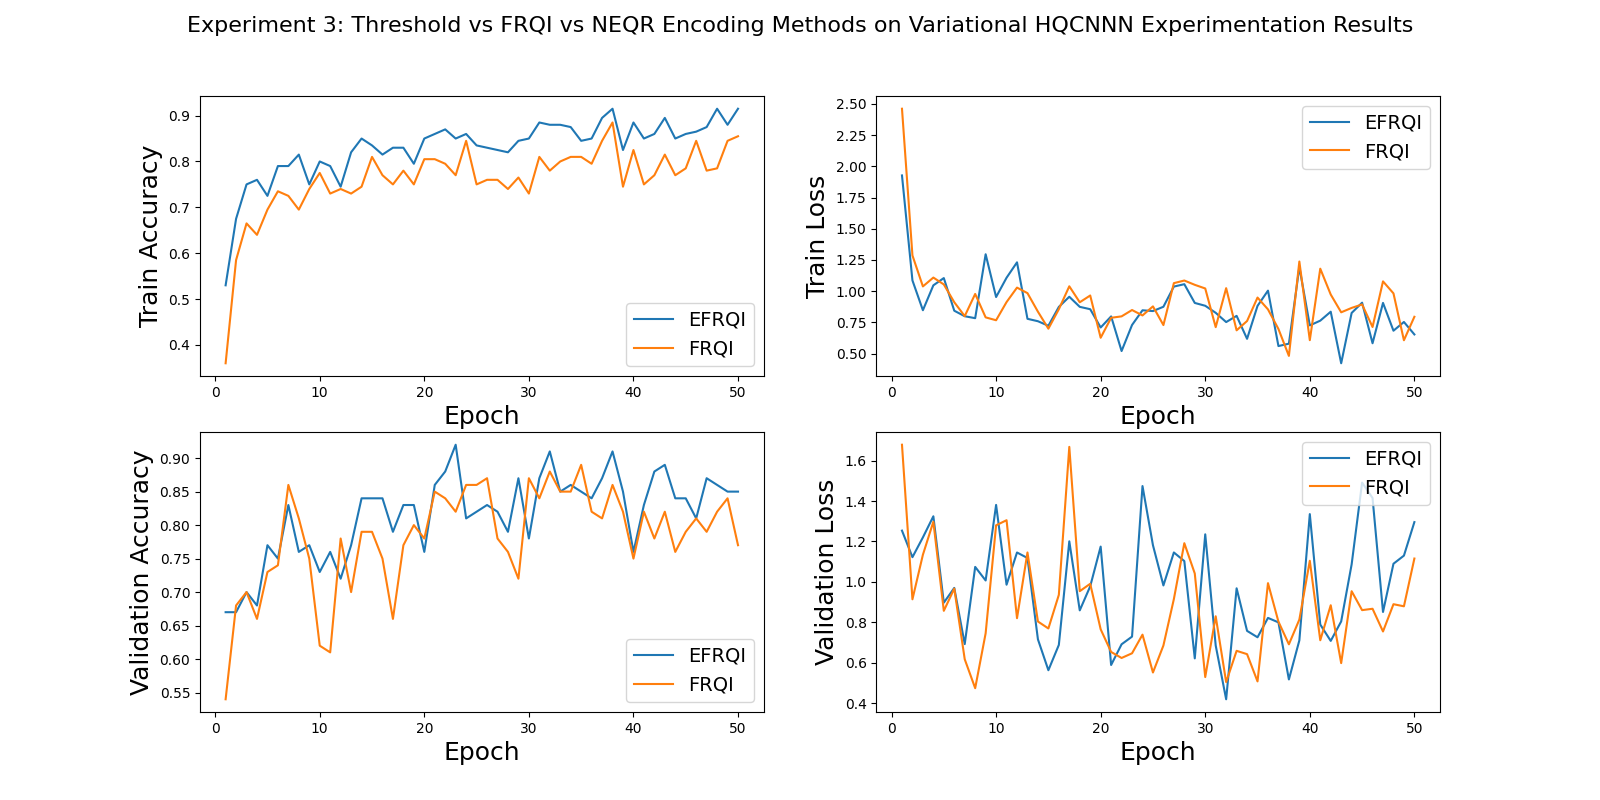
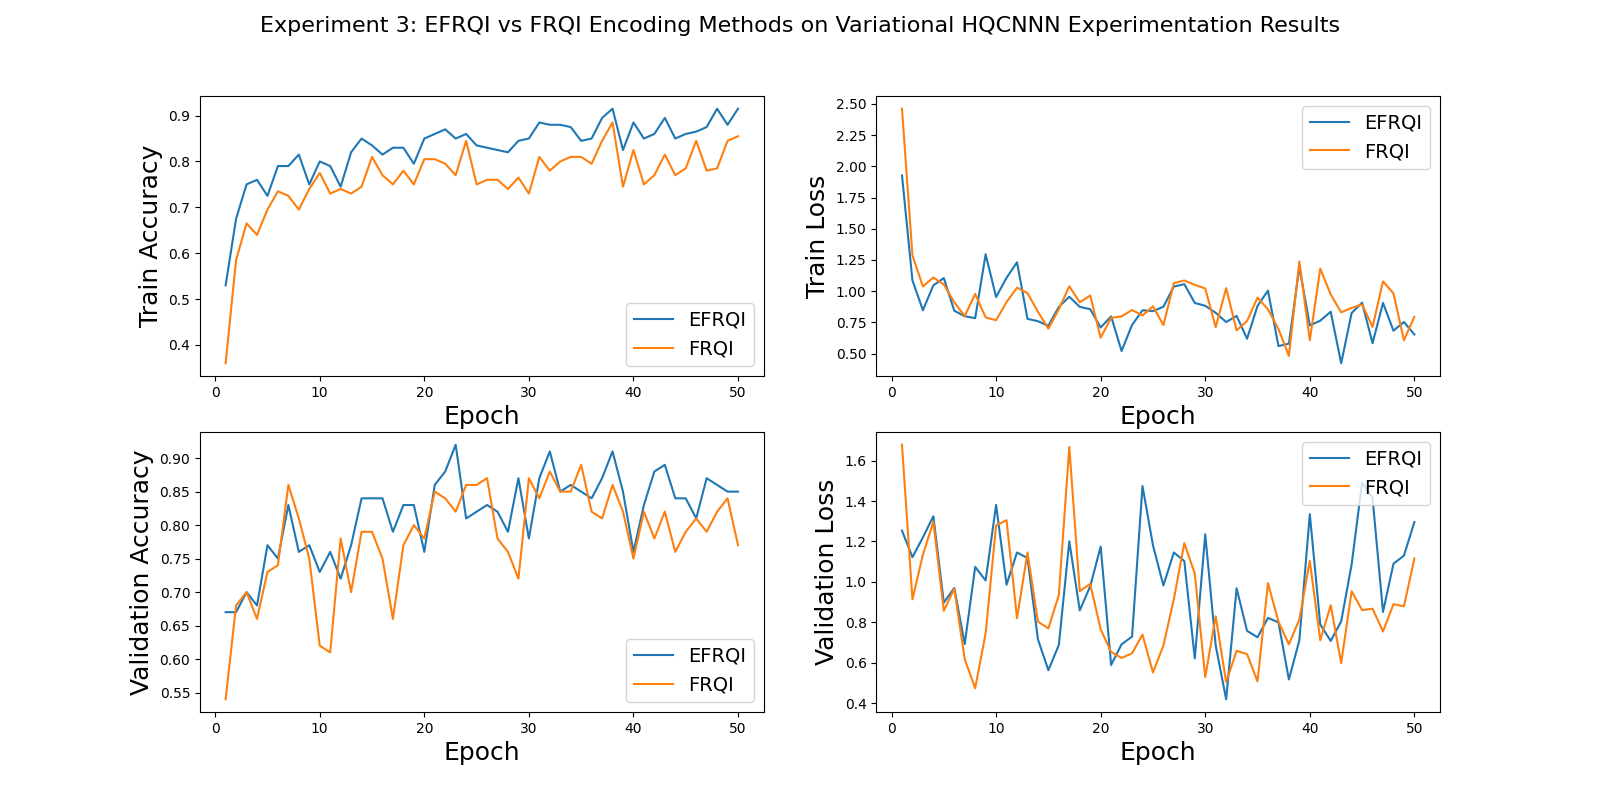
Updated README

Changed region(s): [[0.125, 0.0, 0.875, 0.0625]]

diff --git a/README.md b/README.md
@@ -1,20 +1,9 @@
-# Variational Quanvolutional Neural Networks with enhanced image encoding
-**Preprint**: https://arxiv.org/abs/2106.07327
+# A Study on Hybrid Quantum-Classical Convolutional Neural Networks and its Quantum Image Encoding Methods for Image Classification
 
 #### Abstract
-Image classification is an important task in various machine learning applications. In recent years, a number of classification methods based on quantum machine learning and different quantum image encoding techniques have been proposed. In this paper, we study the effect of three different quantum image encoding approaches on the performance of a convolution-inspired hybrid quantum-classical image classification algorithm called quanvolutional neural network (QNN). We furthermore examine the effect of variational - i.e. trainable - quantum circuits on the classification results. Our experiments indicate that some image encodings are better suited for variational circuits. However, our experiments show as well that there is not one best image encoding, but that the choice of the encoding depends on the specific constraints of the application. This repository is the official implementation of Variational Quanvolutional Neural Networks with enhanced image encoding. 
+This dissertation explores the innovative intersection of quantum computing and classical convolutional neural networks through the development of a Hybrid Quantum-Classical Convolutional Neural Network (HQCCNN). By integrating quantum image encoding methods—specifically the Enhanced Novel Enhanced Quantum Representation (ENEQR) and Enhanced Flexible Representation of Quantum Images (EFRQI)—this research pushes the boundaries of traditional image classification techniques. The quantum encoding methods utilized demonstrate a unique ability to enhance image classification tasks by leveraging quantum mechanics' complex and high-dimensional space. Experimental results reveal that HQCCNNs incorporating these quantum encoding strategies surpass conventional models in accuracy and efficiency, particularly when processing intricate image datasets. This study not only highlights the potential of quantum technologies to revolutionize fields reliant on image classification but also sets the stage for future advancements in quantum artificial intelligence, suggesting a pathway towards more sophisticated quantum-enhanced computational models.
 
 ## Requirements
-
-For the purpose of reproducibility we use a Docker environment. We provide different options depending on the available resources and the need for development options:
-
-```docker-compose.yml``` for simply running the experiments with the default parameters.
-
-```docker-compose-dev.yml``` same parameters but also makes the code available for quick edits in the docker container.
-
-
-
-Additionally, GPUs can be utilized with the following two environments when `"app_params["q-device"] = "qulacs.simulator"`
 is set in `main.py`.
 
 ```docker-compose-gpu.yml``` for simply running the experiments with the default parameters under utilization of a GPU.
@@ -42,87 +31,23 @@ python generate_experiments.py
 ```
 Then you can run the training procedure with the yaml file corresponding to the desired kernel size and random seed:
 ```train
-python main.py experiments_seed_2_filtersize_2x2_imgsize_14.yaml
+python main.py experiments_seed_0_filtersize_2x2_imgsize_14.yaml
 ```
 The code will generate entries in the `save` directory, from which you can inspect the parameters and the performance of the models and reload the pre-trained models. 
-
-The execution of the training can be sped up significantly by pre-encoding the MNIST data and saving the results to disk. To use pre-encoding, change the parameter `app_params["pre_encoding"]` in `main.py` to `True`. **Important:** Pre-encoding works only with the "default.qubit"-simulator. Once the images are pre-encoded, you are free to use any other simulator-backend (e.g. qulacs.simulator).
 
 ## Evaluation
 You can observe the performance of the models, while they are training or afterwards, through `tensorboard`. Enter this address into your browser, after the experiments have been started, to reach the tensorboard started by default.
 ```tensorboard
-localhost:6006
+localhost:6007
 ```
-You can also recreate all of the graphs from our paper with the Jupyter Notebook located at:
+
+The experiments described in the dissertation can be seen through the following Jupyternotebook:
 ```evaluation
 code/evaluation/Evaluation.ipynb
 ```
-## Testing
-
-You can test models on before unseen data. Simply insert the  save location of the models, you wish to test into the `paths` entry of the `test_params` dictionary in `test_models.py`. For newly trained models this is already performed in `main.py` as specified in the default training parameters.
-
-```test
-python test_models.py
-```
-
-## Pre-trained Models
-
-All our models can be reproduced using the commands above. However, this is time consuming. We provide pre-trained model checkpoints in the `evaluation/MNIST14x14`-folder.
-
-## Results
-
-These following two tables show the average values of the training, validation and test accuracy grouped by filter size, encoding algorithm and trainability of the quantum circuit and averaged per group over all different random circuits (seeds 0-9).
-The mean values for training and validation are additionally averaged over the last 20 epochs in order to better estimate only the effects of trainability and encoding algorithm. The max values are not averaged but belong to a certain model of the specific group over the whole course of training. All models had been tested after 50 epochs of training on the same set of 1000 images.
-
-### Accuracy using 2 x 2 filters
-| Encoding              | training       |                | validation     |               | test           |               |
-|-----------------------|----------------|----------------|----------------|---------------|----------------|---------------|
-|                       | mean           | max            | mean           | max           | mean           | max           |
-| FRQI untrainable      | 0.793          | **0.940**          | 0.789          | **0.95**          | 0.806          | 0.878         |
-| FRQI trainable        | **0.862**          | 0.935          | **0.853**          | 0.93          | **0.854**          | **0.884**         |
-| NEQR untrainable      | 0.785          | 0.875          | 0.773          | 0.93          | 0.760          | 0.830         |
-| NEQR trainable        | 0.786          | 0.860          | 0.769          | 0.89          | 0.774          | 0.839         |
-| Threshold untrainable | 0.818          | 0.910          | 0.796          | 0.90          | 0.792          | 0.882         |
-| Threshold trainable   | 0.827          | 0.925          | 0.796          | 0.92          | 0.825          | 0.881         |
-
-### Accuracy using 4 x 4 filters
-| Encoding              | training       |                | validation     |               | test           |               |
-|-----------------------|----------------|----------------|----------------|---------------|----------------|---------------|
-|                       | mean           | max            | mean           | max           | mean           | max           |
-| FRQI untrainable      | 0.639          | 0.870          | 0.623          | 0.84          | 0.602          | 0.826         |
-| FRQI trainable        | 0.737          | 0.865          | 0.732          | 0.87          | 0.715          | 0.836         |
-| NEQR untrainable      | 0.755          | 0.870          | 0.756          | **0.92**  | 0.727          | 0.789         |
-| NEQR trainable        | 0.783          | 0.880          | 0.780          | **0.92** | 0.759          | 0.846         |
-| Threshold untrainable | **0.818** | **0.890** | **0.796** | 0.91          | **0.828** | 	**0.859** |
-| Threshold trainable   | 0.812          | 0.880          | 0.793          | 0.89          | 0.802          | 0.845         |
-
-<br/>
-
-These now following two tables show the average training duration for each experimental configuration of filter size, encoding and trainability. The training was conducted on a compute cluster with 4 GPUs and 40 CPUs. The quantum states of the input images had been pre-encoded to accelerate the training.
-
-### Training duration in hours using 2 x 2 filters
-| Encoding                 | untrainable                                    | trainable |
-|--------------------------|------------------------------------------------|-----------|
-| FRQI                     | 1.34                                           | 7.78      |
-| NEQR                     | 3.51                                           | 13.75     |
-| Threshold                | 1.9                                            | 8.19      |
-### Training duration in hours using 4 x 4 filters
-| Encoding                 | untrainable                                    | trainable |
-|--------------------------|------------------------------------------------|-----------|
-| FRQI                     | 0.53                                           | 7.31      |
-| NEQR                     | 1.55                                           | 12.3      |
-| Threshold                | 24.52                                          | 78.32     |
-
-## Contributing
-* Denny Mattern - denny.mattern@fokus.fraunhofer.de
-* Darya Martyniuk - darya.martyniuk@fokus.fraunhofer.de
-* Henri Willems - henri.willems@fokus.fraunhofer.de
-* Fabian Bergmann - fabian.bergmann@fokus.fraunhofer.de
-* Adrian Paschke - adrian.paschke@fokus.fraunhofer.de
-
 
 ## License and Copyright
-Copyright 2021 Denny Mattern, Darya Martyniuk, Henri Willems, Fabian Bergmann and Adrian Paschke.
+This codebase is a fork. Two novel encoding methods were implemented in this fork of the codebase.
 
 Licensed under the Apache License, Version 2.0 (the "License");
 you may not use this file except in compliance with the License.
